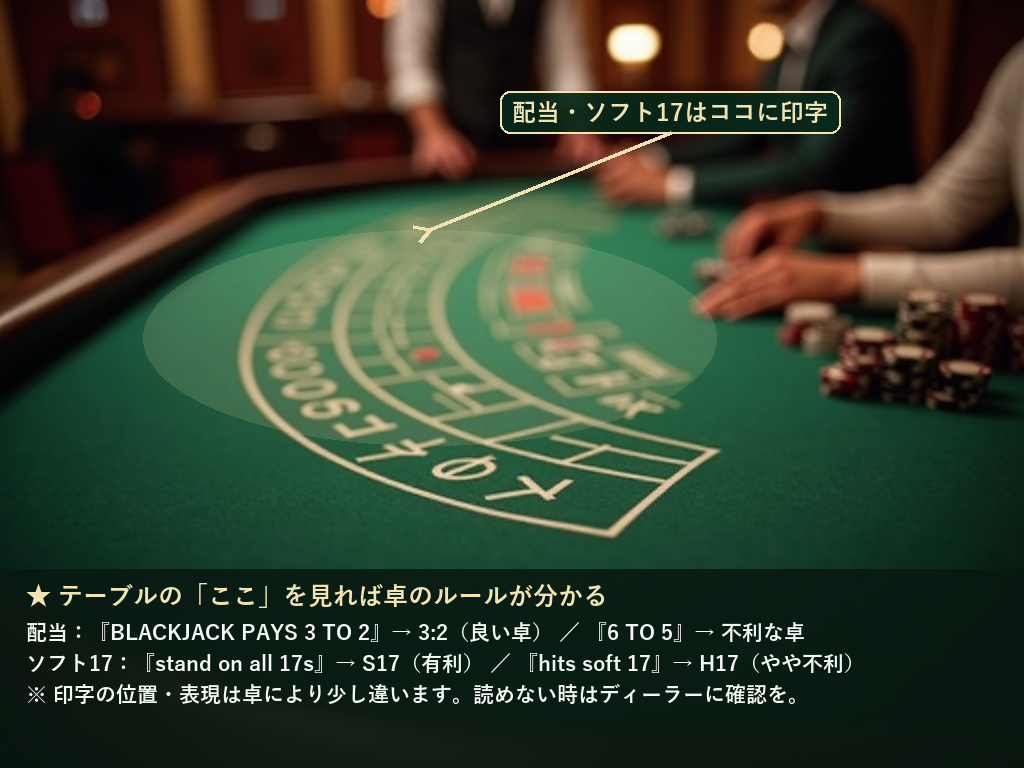
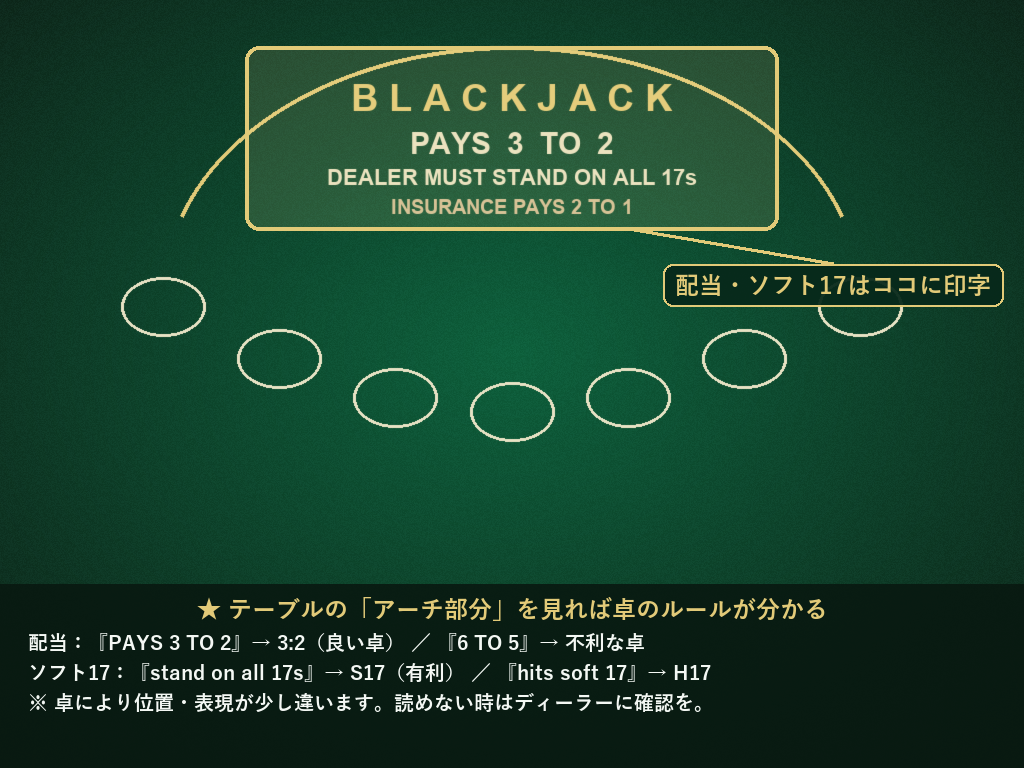
Tappable card picker in quick decision; faithful top-down table guide & shoe images; fix stale note

diff --git a/app.py b/app.py
@@ -436,7 +436,7 @@ st.markdown(
     '<div style="font-weight:800;font-size:0.95rem;margin-bottom:4px;">'
     '📋 使い方は3ステップ</div>'
     '<strong>Step 1.</strong> 下の「⚙️ ハウスルール設定」で、遊ぶ卓の条件を選ぶ'
-    '（ルールが分からなければ「📖 ルールの見分け方」を参照）<br>'
+    '（ルールが分からなければ各項目の「📷 見分け方」ボタンで写真を確認）<br>'
     '<strong>Step 2.</strong> 「ベーシックストラテジー」タブの<strong>⚡クイック判定</strong>で、'
     '自分の2枚とディーラーのカードを選ぶ<br>'
     '<strong>Step 3.</strong> 表示された<strong>最善手</strong>のとおりにプレイ。'
@@ -812,18 +812,34 @@ def _card_name(r: int) -> str:
     return "A" if r == 11 else str(r)
 
 
+def _card_picker(label, key, default):
+    """カードを「タップ」して選ぶピッカー（プルダウンを廃止）。選択中は青く強調。"""
+    if key not in st.session_state:
+        st.session_state[key] = default
+    cur = st.session_state[key]
+    st.markdown(
+        f"<div style='font-size:0.82rem;font-weight:700;color:#37474F;margin:2px 0;'>"
+        f"{label}：<span style='color:#1565C0;font-size:1.0rem;'>{cur}</span></div>",
+        unsafe_allow_html=True)
+    cols = st.columns(10)
+    for i, r in enumerate(_QUICK_CARD_OPTS):
+        with cols[i]:
+            if st.button(r, key=f"{key}_{r}", use_container_width=True,
+                         type="primary" if r == cur else "secondary"):
+                st.session_state[key] = r
+                st.rerun()
+    return st.session_state[key]
+
+
 def render_quick_decision(rules, tc):
     """自分の2枚＋ディーラーのアップカードから最善手と各アクションEVを即表示する。"""
     st.markdown("##### ⚡ クイック判定（自分の手とディーラーを選ぶだけ）")
     st.caption("スマホでも一目。自分の2枚とディーラーのアップカードを選ぶと、"
                "最善手と「なぜ」を即表示します。表を探す必要はありません。")
-    qc1, qc2, qc3 = st.columns(3)
-    with qc1:
-        p1 = st.selectbox("自分のカード①", _QUICK_CARD_OPTS, index=9, key="q_p1")
-    with qc2:
-        p2 = st.selectbox("自分のカード②", _QUICK_CARD_OPTS, index=5, key="q_p2")
-    with qc3:
-        du = st.selectbox("ディーラー", _QUICK_CARD_OPTS, index=9, key="q_du")
+    st.caption("↓ カードをタップして選んでください")
+    p1 = _card_picker("自分のカード①", "q_p1", "10")
+    p2 = _card_picker("自分のカード②", "q_p2", "6")
+    du = _card_picker("ディーラーのアップカード", "q_du", "10")
     c1, c2, dup = _opt_rank(p1), _opt_rank(p2), _opt_rank(du)
     t1, s1 = (11, True) if c1 == 11 else (c1, False)
     total, soft = add_card(t1, s1, c2)